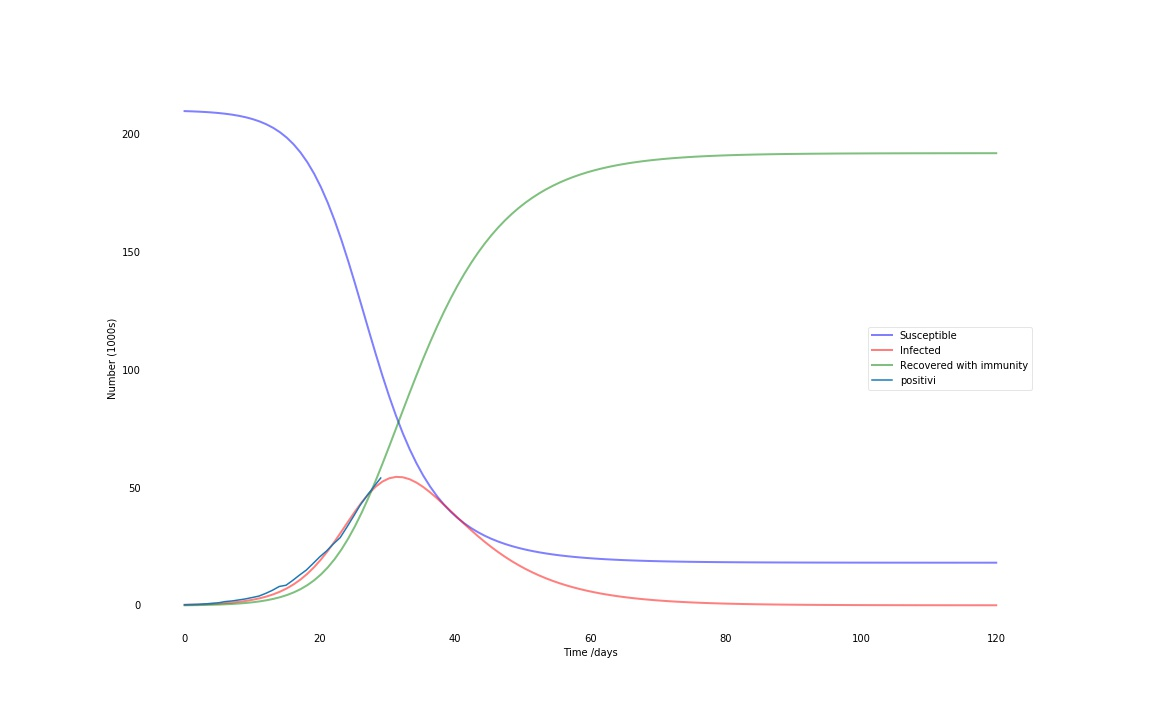
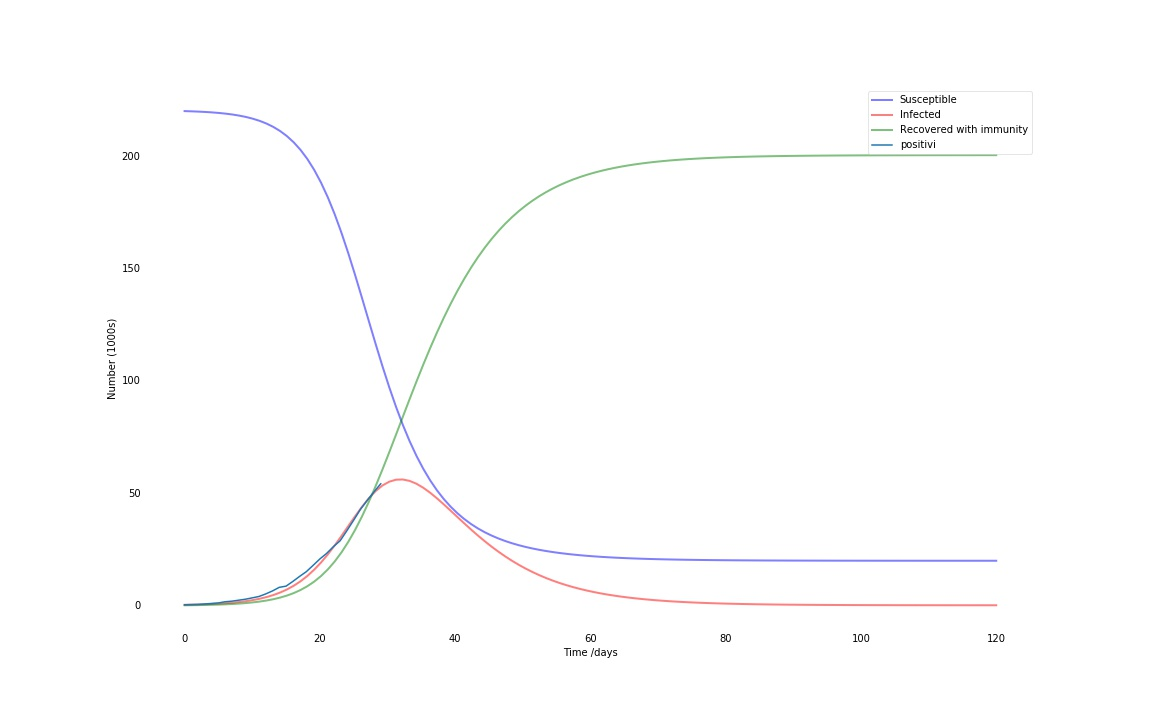
UPD: SIR calibration

diff --git a/prediction_sir_model.py b/prediction_sir_model.py
@@ -82,7 +82,7 @@ def plt_SIR_model(t, S, I, R, tempo_misurati, positivi_misurati):
 
 calibration_flag = 1
 #Parameters for calibration
-N_min, N_max, N_jump, max_error = 210000, 250000, 2500, 0.2
+N_min, N_max, N_jump, max_error = 220000, 250000, 2500, 0.2
 I0 = 229
 R0 = 0
 # Calibration
